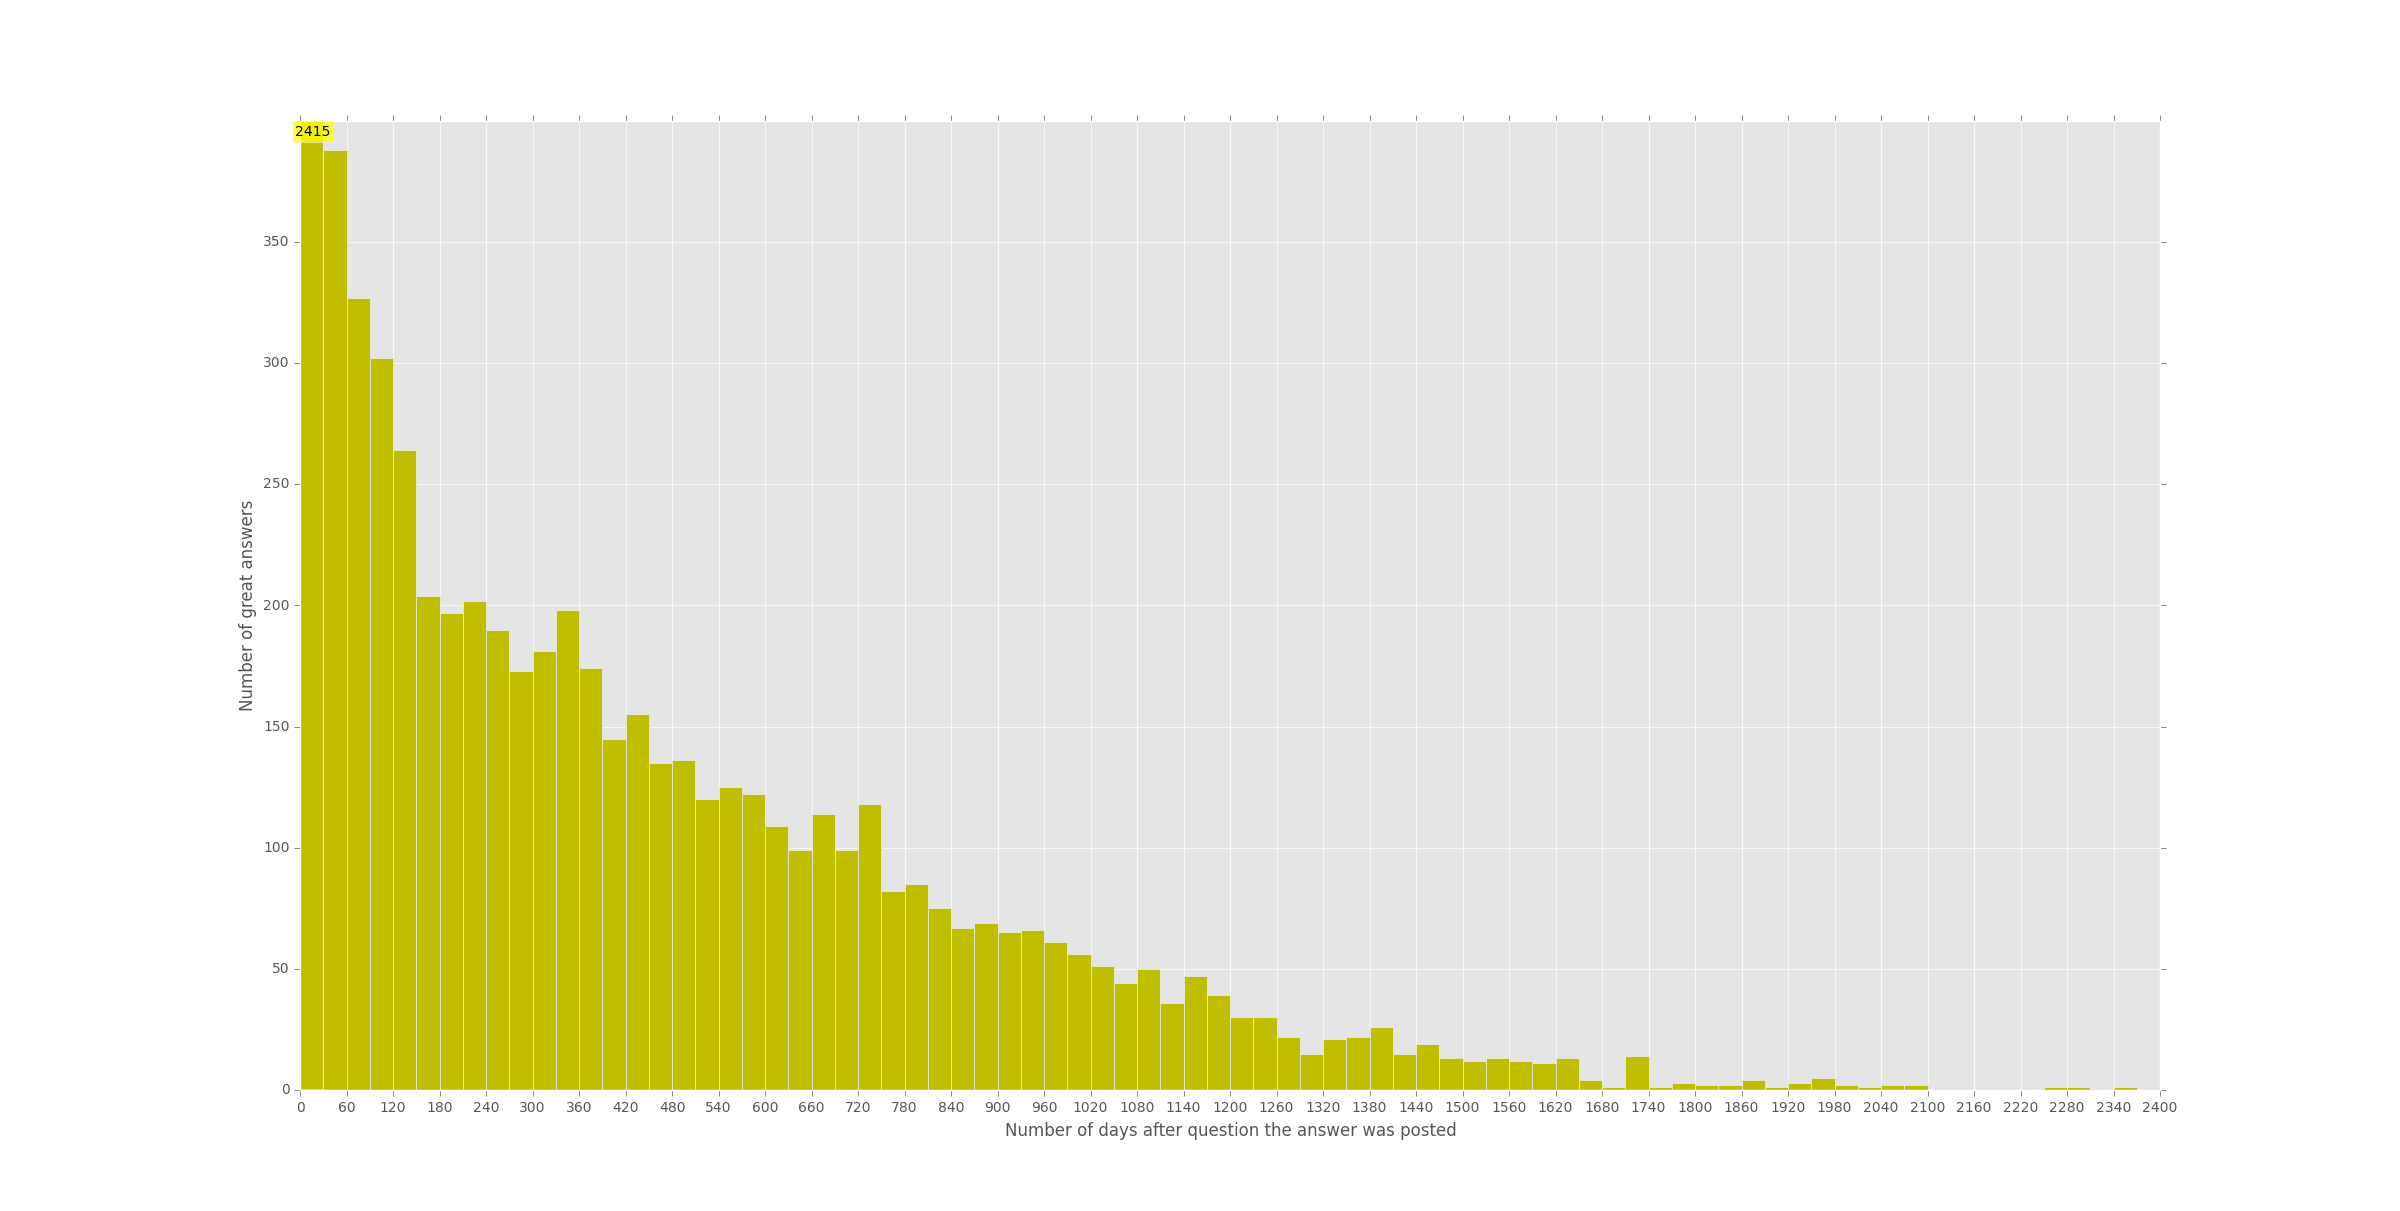
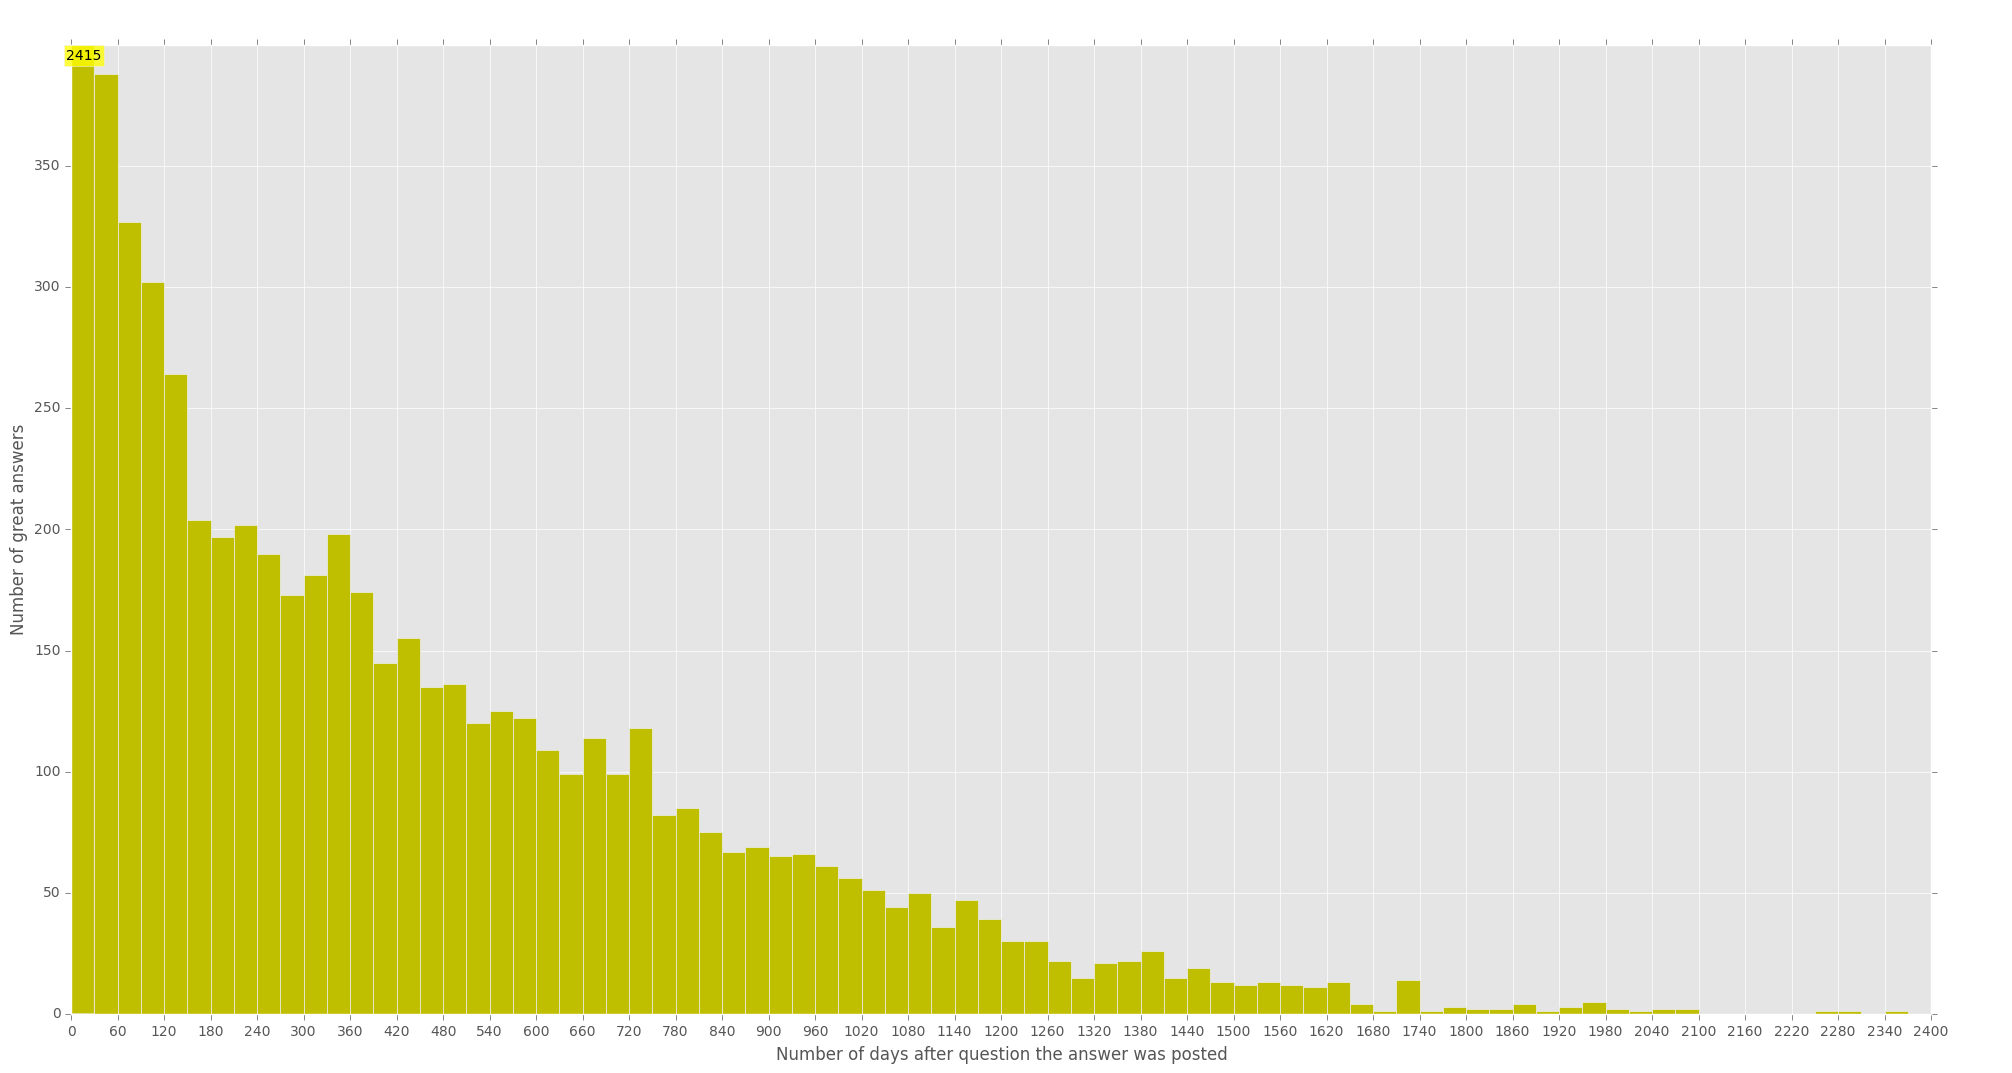
image fix

Changed region(s): [[0.0, 0.0308, 0.9861, 1.0]]

diff --git a/_posts/2015-9-5-stack-overflow-upvotes.md b/_posts/2015-9-5-stack-overflow-upvotes.md
@@ -24,7 +24,7 @@ How many upvotes can you get by answering old questions?
 
 The histogram below shows the number of answers wich have 100 or more upvotes, and how many days after the original question those answers were posted. We can see that most 'great answers' are posted within 30 days of the question being asked, but a significant number are posted one month or more later. One great answer ([this one](http://stackoverflow.com/a/30810322/3923281)) was posted a staggering 2355 days after the question appeared. Writing a quality answer to a popular old question can be very lucrative.
 
-<img src="{{ site.baseurl }}/images/great-answers.png" "great answers" style="width: 1000px;"/>
+<img src="{{ site.baseurl }}/images/great-answers.png" "great answers" />
 
 (Data collected using [this SQL query](http://data.stackexchange.com/stackoverflow/query/353836/high-scoring-late-answers).)
 
